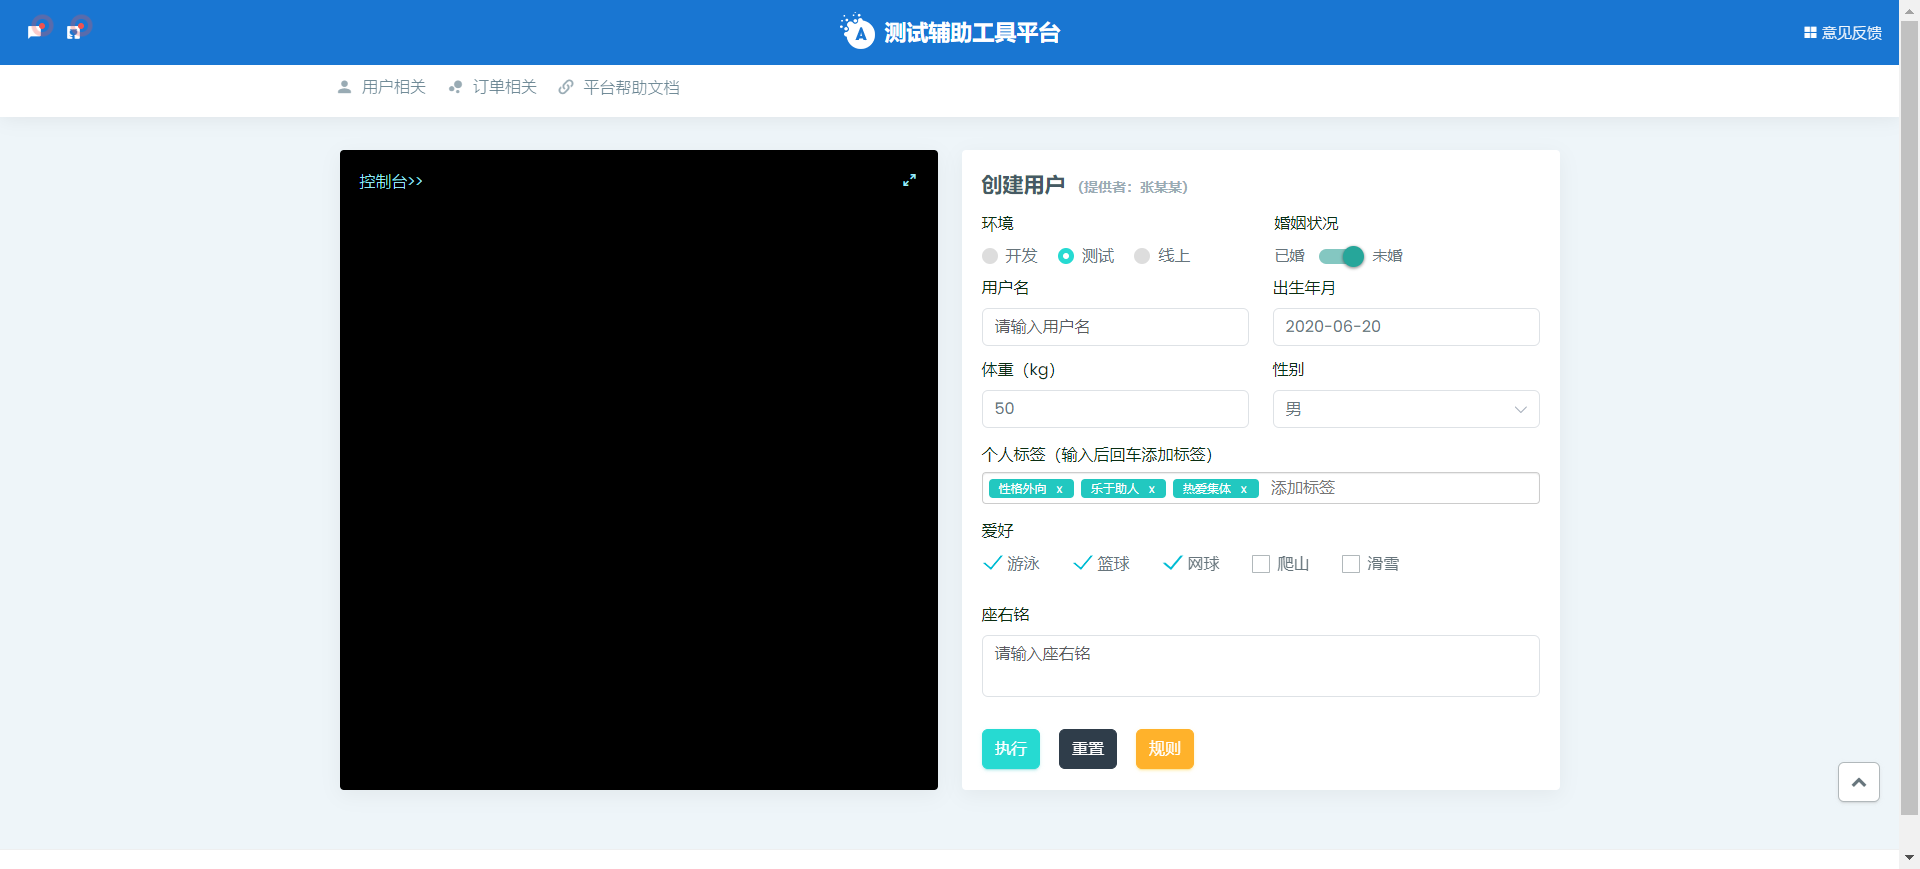
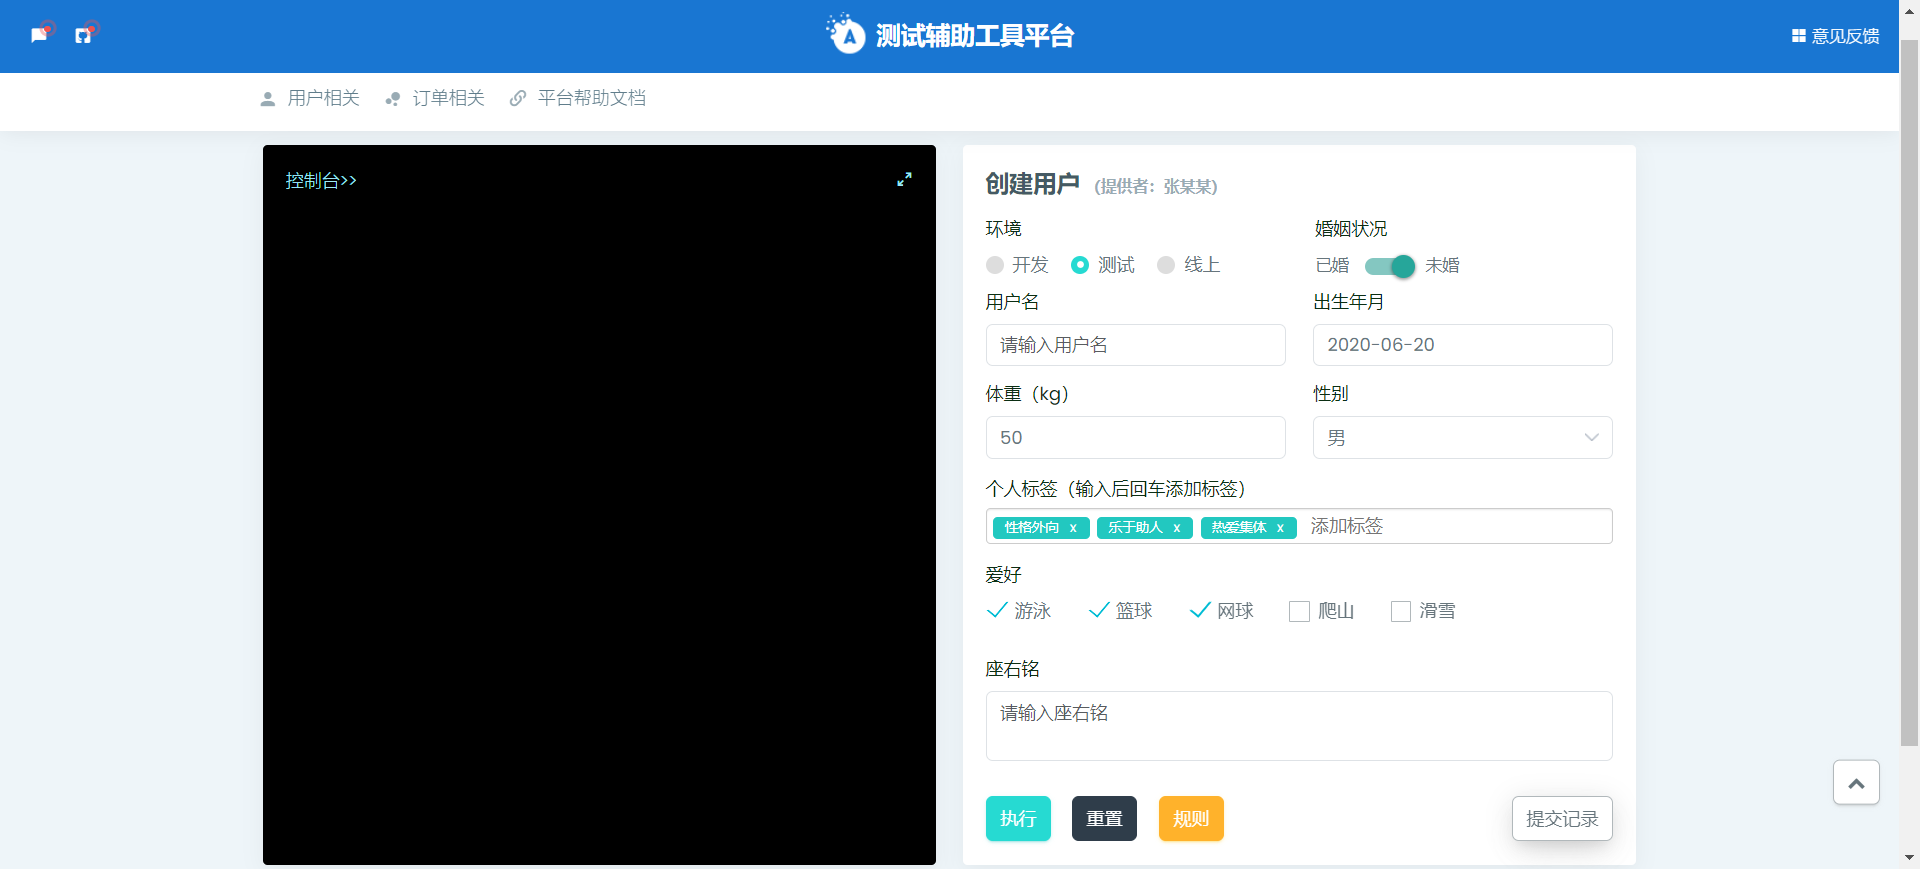
第一版

diff --git a/static/templates/create_user.html b/static/templates/create_user.html
@@ -135,8 +135,11 @@
                                         </div>
                                         <button type="submit" class="tst3 btn btn-success waves-effect waves-light m-r-15">执行</button>
                                         <button type="reset" class="btn btn-inverse waves-effect waves-light m-r-15">重置</button>
-                                        <button id="myButton2" type="button" class="btn btn-warning waves-effect waves-light"data-bs-toggle="modal"
+                                        <button id="myButton2" type="button" class="btn btn-warning waves-effect waves-light" data-bs-toggle="modal"
                                                     data-bs-target="#exampleModal">规则
+                                        </button>
+                                        <button style="float: right" id="myButton2" type="button" class="btn btn-secondary waves-effect waves-light" data-bs-toggle="modal"
+                                                    data-bs-target="#recordList">提交记录
                                         </button>
                                         <div class="modal modal-blur fade" id="exampleModal" tabindex="-1" role="dialog" aria-hidden="true">
                                             <div class="modal-dialog modal-dialog-centered" role="document">
@@ -157,6 +160,112 @@
                                                     </div>
                                                     <div class="modal-footer">
                                                         <button type="button" class="btn btn-success" data-bs-dismiss="modal">关闭</button>
+                                                    </div>
+                                                </div>
+                                            </div>
+                                        </div>
+                                        <div class="modal modal-blur fade" id="recordList" tabindex="-1" role="dialog" aria-hidden="true">
+                                            <div class="modal-dialog modal-xl modal-dialog-centered" role="document">
+                                                <div class="modal-content">
+                                                    <div class="modal-body">
+                                                        <div class="card-body">
+                                                            <h4 class="card-title"><i class="mdi mdi-table"></i> 最近10条提交记录</h4>
+                                                            <!-- Nav tabs -->
+                                                            <ul class="nav nav-tabs" role="tablist">
+                                                                <li class="nav-item"> <a href="#dev" class="nav-link active" data-toggle="tab" aria-expanded="false">开发</a> </li>
+                                                                <li class="nav-item"> <a href="#test" class="nav-link" data-toggle="tab" aria-expanded="false">测试</a> </li>
+                                                                <li class="nav-item"> <a href="#online" class="nav-link" data-toggle="tab" aria-expanded="true">线上</a> </li>
+                                                            </ul>
+                                                            <div class="tab-content br-n pn">
+                                                                <div id="dev" class="tab-pane active">
+                                                                    <div class="card-body">
+                                                                        <div class="table-responsive">
+                                                                            <table class="table color-table success-table">
+                                                                                <thead>
+                                                                                    <tr>
+                                                                                        <th>ID</th>
+                                                                                        <th>姓名</th>
+                                                                                        <th>兴趣爱好</th>
+                                                                                        <th>个险标签</th>
+                                                                                        <th>创建时间</th>
+                                                                                    </tr>
+                                                                                </thead>
+                                                                                <tbody>
+                                                                                {% for user in users_list_dev %}
+                                                                                    <tr>
+                                                                                        <td>{{ user.id }}</td>
+                                                                                        <td>{{ user.user_name }}</td>
+                                                                                        <td>{{ user.interest }}</td>
+                                                                                        <td>{{ user.personality_label }}</td>
+                                                                                        <td>{{ user.create_time }}</td>
+                                                                                    </tr>
+                                                                                {% endfor %}
+
+                                                                                </tbody>
+                                                                            </table>
+                                                                        </div>
+                                                                    </div>
+                                                                </div>
+                                                                <div id="test" class="tab-pane">
+                                                                    <div class="card-body">
+                                                                        <div class="table-responsive">
+                                                                            <table class="table color-table success-table">
+                                                                                <thead>
+                                                                                    <tr>
+                                                                                        <th>ID</th>
+                                                                                        <th>姓名</th>
+                                                                                        <th>兴趣爱好</th>
+                                                                                        <th>个险标签</th>
+                                                                                        <th>创建时间</th>
+                                                                                    </tr>
+                                                                                </thead>
+                                                                                <tbody>
+                                                                                {% for user_test in users_list_test %}
+                                                                                    <tr>
+                                                                                        <td>{{ user_test.id }}</td>
+                                                                                        <td>{{ user_test.user_name }}</td>
+                                                                                        <td>{{ user_test.interest }}</td>
+                                                                                        <td>{{ user_test.personality_label }}</td>
+                                                                                        <td>{{ user_test.create_time }}</td>
+                                                                                    </tr>
+                                                                                {% endfor %}
+
+                                                                                </tbody>
+                                                                            </table>
+                                                                        </div>
+                                                                    </div>
+                                                                </div>
+                                                                <div id="online" class="tab-pane">
+                                                                    <div class="card-body">
+                                                                        <div class="table-responsive">
+                                                                            <table class="table color-table success-table">
+                                                                                <thead>
+                                                                                    <tr>
+                                                                                        <th>ID</th>
+                                                                                        <th>姓名</th>
+                                                                                        <th>兴趣爱好</th>
+                                                                                        <th>个险标签</th>
+                                                                                        <th>创建时间</th>
+                                                                                    </tr>
+                                                                                </thead>
+                                                                                <tbody>
+                                                                                {% for user_online in users_list_online %}
+                                                                                    <tr>
+                                                                                        <td>{{ user_online.id }}</td>
+                                                                                        <td>{{ user_online.user_name }}</td>
+                                                                                        <td>{{ user_online.interest }}</td>
+                                                                                        <td>{{ user_online.personality_label }}</td>
+                                                                                        <td>{{ user_online.create_time }}</td>
+                                                                                    </tr>
+                                                                                {% endfor %}
+
+                                                                                </tbody>
+                                                                            </table>
+                                                                        </div>
+                                                                    </div>
+                                                                </div>
+                                                            </div>
+                                                        </div>
                                                     </div>
                                                 </div>
                                             </div>

diff --git a/apps/user/user_views.py b/apps/user/user_views.py
@@ -7,6 +7,41 @@ from utils.script.create_user_constructor import CreateUser
 # Create your views here.
 
 
+def user_list_to_env(env):
+    """
+    根据环境，生成列表
+    :return:
+    """
+    print(222222222222222)
+    users = CreateUserTable.objects.filter(environment=env).order_by('-id')[:10]
+    user_list = []
+    id = 0
+    for user in users:
+        print(user.user_name)
+        id += 1
+        user_list.append(
+            {
+                'id': id,
+                'user_name': user.user_name,
+                'interest': user.interest,
+                'personality_label': user.personality_label,
+                'create_time': user.create_time
+            }
+        )
+    return user_list
+
+def create_user_list(request):
+    users_list_dev = user_list_to_env('开发')
+    users_list_test = user_list_to_env('测试')
+    users_list_online = user_list_to_env('线上')
+
+    context = {
+        'users_list_dev': users_list_dev,
+        'users_list_test': users_list_test,
+        'users_list_online': users_list_online
+    }
+    return context
+
 def custom_context_processor(request):
     """
     查询各功能的使用数，即表记录总数
@@ -34,6 +69,7 @@ def get_base_template_context(request):
         'custom_template_var': '这是一个自定义的基础模板变量',
     }
     base_template_context.update(custom_context_processor(request))
+    base_template_context.update(create_user_list(request))
     return base_template_context
 
 def user(request):

diff --git a/README.md b/README.md
@@ -9,10 +9,13 @@
 - [x] 🚚 Django官方文档：https://docs.djangoproject.com/zh-hans/3.1/
 - [x] ☕ Bootstrap官方文档：https://v5.bootcss.com/docs
 - [x] ⚽ 前端组件代码参考：./static/平台demo.rar（注意引用js和css库）
-
+- 
+首页入口
 ![img.png](static/picture/doc3.png)
-
+功能详情
 ![img.png](static/picture/doc2.png)
+提交记录
+![img.png](static/picture/doc0.png)
 ### 1、Django介绍（python开发框架）
 ![img.png](static/picture/doc1.png)
 官方文档：https://docs.djangoproject.com/zh-hans/2.0/
